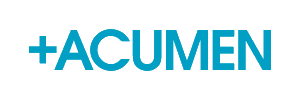
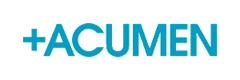
UI 3

diff --git a/index.html b/index.html
@@ -22,7 +22,7 @@
     </head>
     <body id="skin-blur-night">
         <header id="header" class="media">
-            <a class="logo pull-left" href="index.html">Excel 2016</a>
+            <img class="logo pull-left" src="img/logo/logo-mec.png" style="width: 146px;margin-left: 10px;height: 87px;margin-top: -14px;">
             <div class="media-body">
                 <div class="media" id="top-menu">
                     <a class="pull-right" style="padding-top:10px;">
@@ -131,6 +131,7 @@
                 </div>
                                 
                 <div class="block-area dash">
+                    <img src="img/sponsor/sponsor.png" style="margin-left:63%;position:absolute;">
                     <a class="dashboard tile" data-toggle="modal" id="buy" href="#buy-modal">
                         <img src="img/shortcuts/money.png" alt="">
                         <small class="t-overflow">Buy/Short Sell</small>
@@ -163,45 +164,61 @@
                 <div class="block-area">
                     <div class="row">
                         <div class="col-md-3 col-xs-6">
-                            <div class="tile quick-stats">
-                                <img src="img/card1.svg" style="float:right;height:50px;weight:50px;margin-right:10px;">
-                                <div id="stats-line-2" class="pull-left"></div>
-                                <div class="data">
+                            <div class="row tile quick-stats" style="margin-left:1px;">
+                                <div class="col-md-4">
                                     <h2 data-value="100000">0</h2>
                                     <small>NET WORTH</small>
                                 </div>
+                                <div class="col-md-6">
+                                    <p style="margin-left: 30px;margin-top: 5px;">Cash Available<br>100000</p>
+                                </div>
+                                <div class="col-md-2">
+                                    <img src="img/card1.svg" style="float:right;height:50px;width:50px;margin-right:10px;">
+                                </div>                                    
                             </div>
                         </div>
 
                         <div class="col-md-3 col-xs-6">
-                            <div class="tile quick-stats media">
-                                <img src="img/card2.svg" style="float:right;height:50px;weight:50px;margin-right:10px;">
-                                <div id="stats-line-3" class="pull-left"></div>
-                                <div class="media-body">
+                            <div class="row tile quick-stats media">
+                                <div class="col-md-4 media-body">
                                     <h2 data-value="14">0</h2>
                                     <small>Rank</small>
                                 </div>
-                            </div>
-                        </div>
-
-                        <div class="col-md-3 col-xs-6">
-                            <div class="tile quick-stats media">
-                                <img src="img/card3.svg" style="float:right;height:50px;weight:50px;margin-right:10px;">
-                                <div id="stats-line-4" class="pull-left"></div>
-                                <div class="media-body">
-                                    <h2 data-value="4896">0</h2>
-                                    <small>MARGIN</small>
+                                <div class="col-md-6">
+                                    <p style="margin-left: 15px;margin-top: 5px;">Total Players<br>50</p>
+                                </div>
+                                <div class="col-md-2">
+                                    <img src="img/card2.svg" style="float:right;height:50px;width:50px;margin-right:10px;">
                                 </div>
                             </div>
                         </div>
 
                         <div class="col-md-3 col-xs-6">
-                            <div class="tile quick-stats media">
-                                <img src="img/card4.svg" style="float:right;height:50px;weight:50px;margin-right:10px;">
-                                <div id="stats-line" class="pull-left"></div>
-                                <div class="media-body">
-                                    <h2 data-value="293">0</h2>
-                                    <small>NIFTY</small>
+                            <div class="row tile quick-stats media">
+                                <div class="col-md-4 media-body">
+                                    <h2 data-value="4000">0</h2>
+                                    <small>Margin</small>
+                                </div>
+                                <div class="col-md-6">
+                                    <p style="margin-left: 5px;margin-top: 5px;">No. of Transactions<br>50</p>
+                                </div>
+                                <div class="col-md-2">
+                                    <img src="img/card3.svg" style="float:right;height:50px;width:50px;margin-right:10px;">
+                                </div>
+                            </div>
+                        </div>
+
+                        <div class="col-md-3 col-xs-6">
+                            <div class="row tile quick-stats media">
+                                <div class="col-md-4 media-body">
+                                    <h2 data-value="290">0</h2>
+                                    <small>Nifty</small>
+                                </div>
+                                <div class="col-md-6">
+                                    <p style="margin-left: 15px;margin-top: 5px;">Change<br>5%</p>
+                                </div>
+                                <div class="col-md-2">
+                                    <img src="img/card4.svg" style="float:right;height:50px;width:50px;margin-right:10px;">
                                 </div>
                             </div>
                         </div>
@@ -222,39 +239,6 @@
                                 <h2 class="tile-title">Graph</h2>
                                 <div class="p-10">
                                     <div id="line-chart" class="main-chart" style="height: 250px"></div>
-
-                                    <div class="chart-info">
-                                        <ul class="list-unstyled">
-                                            <li class="m-b-10">
-                                                Total Sales 1200
-                                                <span class="pull-right text-muted t-s-0">
-                                                    <i class="fa fa-chevron-up"></i>
-                                                    +12%
-                                                </span>
-                                            </li>
-                                            <li>
-                                                <small>
-                                                    Local 640
-                                                    <span class="pull-right text-muted t-s-0"><i class="fa m-l-15 fa-chevron-down"></i> -8%</span>
-                                                </small>
-                                                <div class="progress progress-small">
-                                                    <div class="progress-bar progress-bar-warning" role="progressbar" aria-valuenow="40" aria-valuemin="0" aria-valuemax="100" style="width: 40%"></div>
-                                                </div>
-                                            </li>
-                                            <li>
-                                                <small>
-                                                    Foreign 560
-                                                    <span class="pull-right text-muted t-s-0">
-                                                        <i class="fa m-l-15 fa-chevron-up"></i>
-                                                        -3%
-                                                    </span>
-                                                </small>
-                                                <div class="progress progress-small">
-                                                    <div class="progress-bar progress-bar-info" role="progressbar" aria-valuenow="40" aria-valuemin="0" aria-valuemax="100" style="width: 60%"></div>
-                                                </div>
-                                            </li>
-                                        </ul>
-                                    </div>
                                 </div>  
                             </div>
                             <div class="clearfix"></div>

diff --git a/css/style.css b/css/style.css
@@ -71,7 +71,7 @@ html, body {
 body {
     overflow: hidden;
     font-family: 'open-sans-light', sans-serif;
-    font-size: 12px;
+    font-size: 13px;
 }
 
 .ie9 #sidebar {
@@ -216,8 +216,13 @@ blockquote small {
     font-size: 8px;
 }
 
+p {
+    cursor: default;
+}
+
 /* Header */
 #header {
+    background: rgba(0, 0, 0, 0.23);
     border-bottom: 1px solid rgba(255,255,255,0.15);
     min-height: 65px;
     position: relative;
@@ -236,7 +241,6 @@ blockquote small {
     padding: 19px 0 12px 0px;
     font-size: 16px;
     margin-right: 9px !important;
-    background: rgba(0, 0, 0, 0.23);
 }
 
 /* Top Menu */
@@ -419,15 +423,15 @@ blockquote small {
     padding: 13px 0 0 0;
     height: 75px;
     overflow: hidden;
+    margin-right: 1px;
 }
 
 .quick-stats h2 {
-    margin: 2px 0 1px 0;
+    margin: 2px 0 1px 5px;
     line-height: 29px;
     font-size: 30px;
     left: 10px;
     top: 10px;
-    position: absolute;
     line-height: 100%;
 }
 
@@ -443,9 +447,8 @@ blockquote small {
 }
 
 .quick-stats small {
-    bottom: 15px;
+    margin-left: 5px;
     left: 11px;
-    position: absolute;
 }
 
 .quick-stats [id^="stats-line"] {
@@ -1348,6 +1351,7 @@ hr {
     }
     /* Header */
     #header {
+        background: rgba(0, 0, 0, 0.23);
         padding: 0;
     }
     
